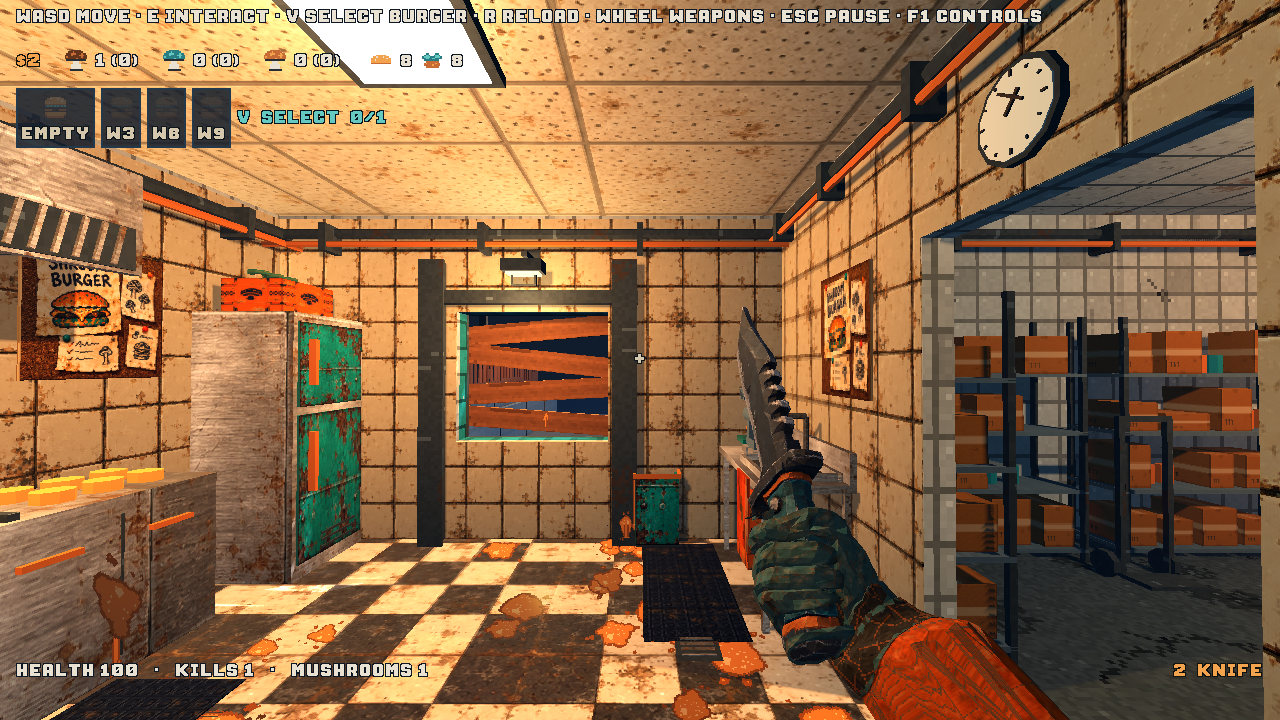
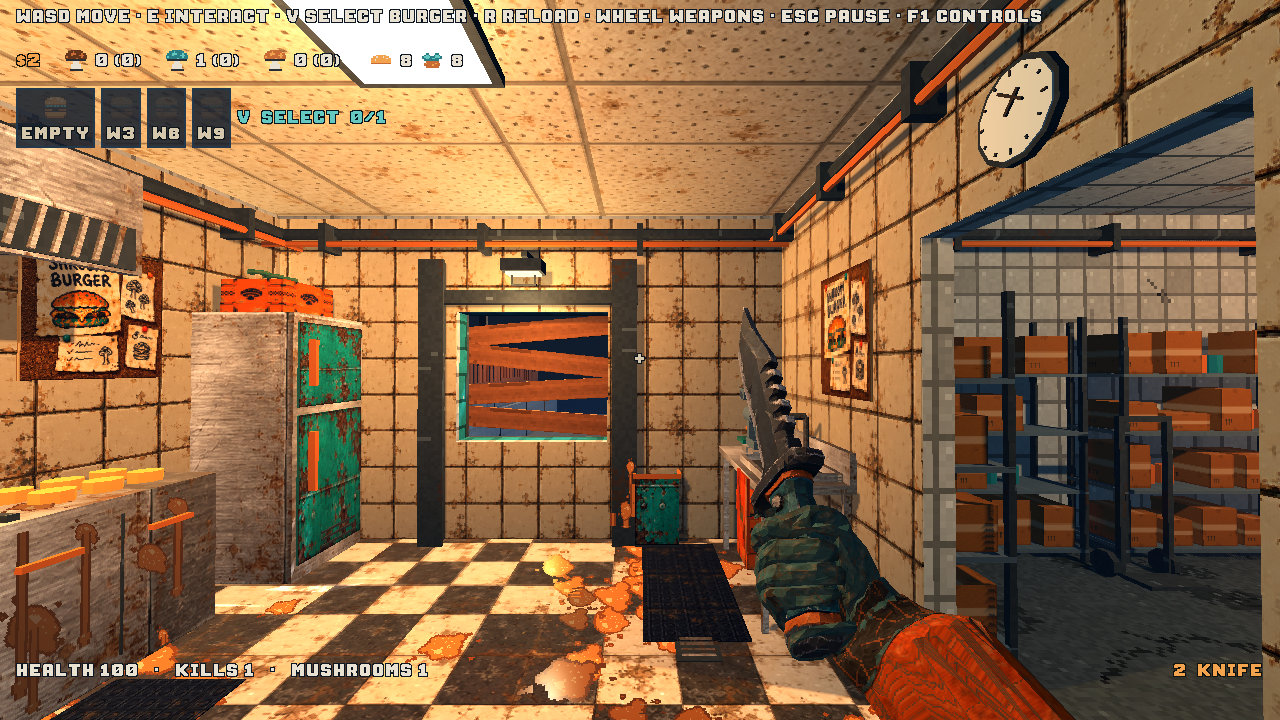
Add freshness badges, automatic rush shelf sales, clearance and serving heater; verify 22 suites and native captures

diff --git a/docs/handover/RUSH_SHELF.md b/docs/handover/RUSH_SHELF.md
@@ -1,0 +1,46 @@
+# Rush shelf
+
+Four carried boxes maximum, four shared serving/clearance boxes maximum. Inventory
+slots unlock at the START of waves 3, 6 and 9. V selects left to right and wraps.
+Look at an occupied tray box and press E to retrieve it, then E at the bin to discard.
+
+## Freshness
+
+Age begins on pickup/bagging. Each burger keeps its own age across every transfer.
+Fresh 0–50s; Warm 50–110s; Cooling 110–150s; Cold 150–300s;
+Very Cold 300–450s; Spoiled at 450s. HUD and physical boxes show pixel icons and names.
+Cold pays 50%, Very Cold 25%, rounded down separately for price and tip. Spoiled
+cannot sell and must be binned. A quiet bell marks the cold transition. Cold tray
+stock triggers a faint tick every 20s; filling/rejecting a full tray plays a low tone.
+
+## Automatic sales
+
+Customers check on arrival and every 0.2s while waiting. No reservations. Matching
+recipe stock sells freshest first. Orders can contain 1–2 boxes initially and up
+to 3 from wave 6. The existing customer patience window remains 50s (75s with bell).
+Each box pays immediately; the car leaves when its quantity is complete.
+
+Hot matching boxes stocked before arrival earn +25% on their quality tip if taken
+within 3s of arrival. Round the resulting tip to whole dollars. No bonus for manual
+handover, cold stock or later deposits. Standard burgers still have no quality tip.
+
+The DISCOUNT BOX plaque beside the tray deposits selected cold/very-cold stock into
+an available one of the SAME FOUR spaces and marks it SALE. Customers first choose
+their exact recipe; otherwise they accept marked clearance as a discounted substitute.
+Retrieval and disposal work identically for sale boxes. No extra hidden storage.
+
+## Upgrade
+
+Shop > Upgrades > More upgrades > Heated serving tray: $180. This slows hot food's
+age on the serving shelf by half: a newly bagged box remains hot for 300 real seconds
+there instead of 150. Carried food ages normally. Already cold food does not reheat;
+post-cold stages remain 150s each. Earlier time is never refunded. The old patty
+warming tray remains a separate upgrade. Box lid colours identify common/brown,
+blue and red recipes; special recipes use gold.
+
+## Verification
+
+Extended burger_inventory_test.gd covers boundaries, 50/25% pricing, spoilage,
+freshest-first selection, shared clearance capacity, retrieval, heater purchase,
+warning interval and immediate triple sales with the preparation tip bonus.
+Native capture_serving_inventory.gd exercises actual look-ray pickup and bin use.

diff --git a/README.md b/README.md
@@ -1,3 +1,12 @@
+## Rush shelf update
+
+Burger slots and tray boxes now show freshness icons. Customers buy matching stock
+automatically, freshest first, with up to three burgers per late-game order. Pre-stocked
+hot food earns a 25% quality-tip bonus. Cold/very-cold food pays 50%/25%; spoiled food
+must be binned. The Discount Box shares the four tray spaces. A $180 heated serving
+tray upgrade doubles the hot period while shelved. Inventory unlocks at waves 3/6/9.
+See [rules and verification](docs/handover/RUSH_SHELF.md).
+
 Burger service update: V cycles carried burgers; E on an empty hatch-tray slot places the selected burger, E on a box retrieves it, and E at the hatch bin discards the selected item. Capacity starts at one and increases after clearing waves 3/6/9, to four. Burgers cool after 150 seconds including tray time; each cold item pays 50%. Both shotguns and separate shell packs are in the shop. See docs/handover/BURGER_INVENTORY_TRAY.md.
 
 Performance update: menu input targets 60 FPS, intro clips decode at 720p, fullscreen keeps the 720p render budget, and balanced nearby shadows are now the default. Full lighting shadows remain available in settings. All 21 suites pass; see docs/handover/PERFORMANCE_MENU_RENDERING.md for measured results and remaining hitch limits.

diff --git a/AGENTS.md b/AGENTS.md
@@ -101,9 +101,14 @@ with a copy from another branch. Do not hand-edit generated scenes or materials.
 
 Burger inventory update: use player.add_burger()/take_selected_burger(), not
 set_held(), for new gameplay. Burger dictionaries retain hot_remaining across
-inventory/tray transfers; never reset it on retrieval. Capacity unlocks after
-wave_cleared at 3/6/9, max four. ServingTray is boxed food, separate from the heated
+inventory/tray transfers; never reset it on retrieval. Capacity unlocks on
+wave_started at 3/6/9, max four. ServingTray is boxed food, separate from the heated
 patty tray. Sawn-off starts reserved in slot 3 but requires purchase; wheel skips it
 until bought. Both shotguns have independent ammo purchases. See
 docs/handover/BURGER_INVENTORY_TRAY.md; run burger_inventory_test.gd and the native
 capture_serving_inventory.gd interaction assertions alongside all existing checks.
+
+Rush shelf: age_seconds belongs to each burger; hot_remaining is a compatibility
+projection. Never reset either on transfer. Freshness stages and payments live in
+game/burger_items.gd. Discount Box shares the four tray spaces. The serving heater
+is separate from the patty warmer. See docs/handover/RUSH_SHELF.md.
